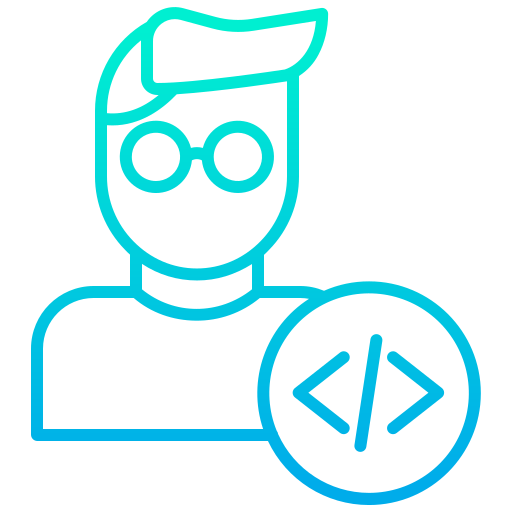
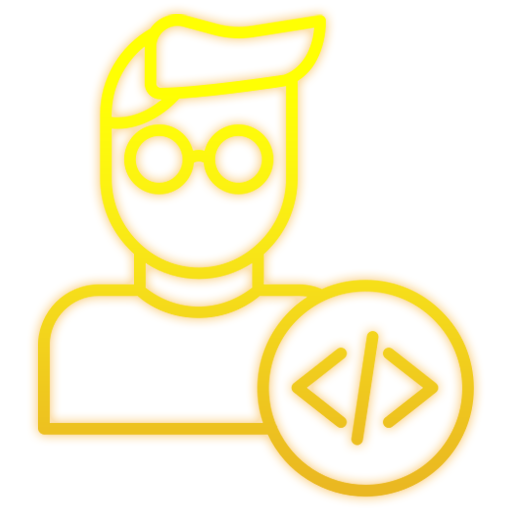
Adicionado styles h1 > botoes

Changed region(s): [[0.0625, 0.0, 0.9375, 1.0]]

diff --git a/style.css b/style.css
@@ -13,7 +13,7 @@
     --second-bg-color: #202020;
     --text-color: #fff;
     --second-color: #ccc;
-    --main-color: yellow;
+    --main-color: #ffff00;
     --big-font: 5rem;
     --h2-font: 3rem;
     --p-font: 1.1rem;
@@ -94,4 +94,93 @@ section{
     display: flex;
     align-items: center;
     justify-content: flex-start;
+}
+
+
+
+.one{
+    display: inline-block;
+    margin-right: 1px;
+    height: 32px;
+    line-height: 32px;
+    font-size: 20px;
+    font-weight: 500;
+    padding: 0 15px;
+    border-radius: 25px;
+    background-color: var(--main-color);
+    color: black;
+}
+
+.home-text h1{
+    font-size: var(--big-font);
+    font-weight: 700;
+    list-style: 1.1;
+    margin: 0 0 8px;
+    margin-bottom: 25px;
+}
+
+.two{
+    display: inline-block;
+    font-size: 20px;
+    font-weight: 500;
+}
+
+.home-text h3{
+    font-size: 1.32rem;
+    font-weight: 700;
+    list-style: 1.1;
+    margin-top: -30px;
+    margin-bottom: 30px;
+}
+
+.home-text p{
+    color: var(--second-color);
+    font-size: var(--p-font);
+}
+
+.button{
+    display: inline-flex;
+    align-items: center;
+    justify-content: center;
+}
+
+.btn{
+    display: inline-block;
+    padding: 10px 20px;
+    background-color: var(--main-color);
+    border-radius: 9px;
+    color: black;
+    font-size: 1rem;
+    letter-spacing: 1px;
+    font-weight: 600;
+    transition: all .45s ease;
+    margin-top: 40px;
+}
+
+.btn:hover{
+    transform: scale(0.9);
+}
+
+.btn2{
+    display: inline-flex;
+    align-items: center;
+    justify-content: center;
+    font-size: 15px;
+    font-weight: 600px;
+    color: var(--text-color);
+    margin-left: 35px;
+    margin-top: 40px;
+    padding: 3px 3px;
+    background-color: var(--main-color);
+    border-radius: 9px;
+    color: black;
+    font-size: 1rem;
+    letter-spacing: 1px;
+    font-weight: 600;
+    transition: all .45s ease;
+    margin-top: 40px;
+}
+
+.btn2:hover{
+    transform: scale(0.9);
 }

diff --git a/index.html b/index.html
@@ -40,7 +40,7 @@
             <p>já me aventurei em várias linguagens, mas cursando uma gradução, hoje estou focando em front-end.</p>
             <div class="button">
                 <a href="https://github.com/JeanCapixaba" class="btn">Meu Git</a>
[2 lines of base64/hex data omitted]
 
             </div>
         </div>
